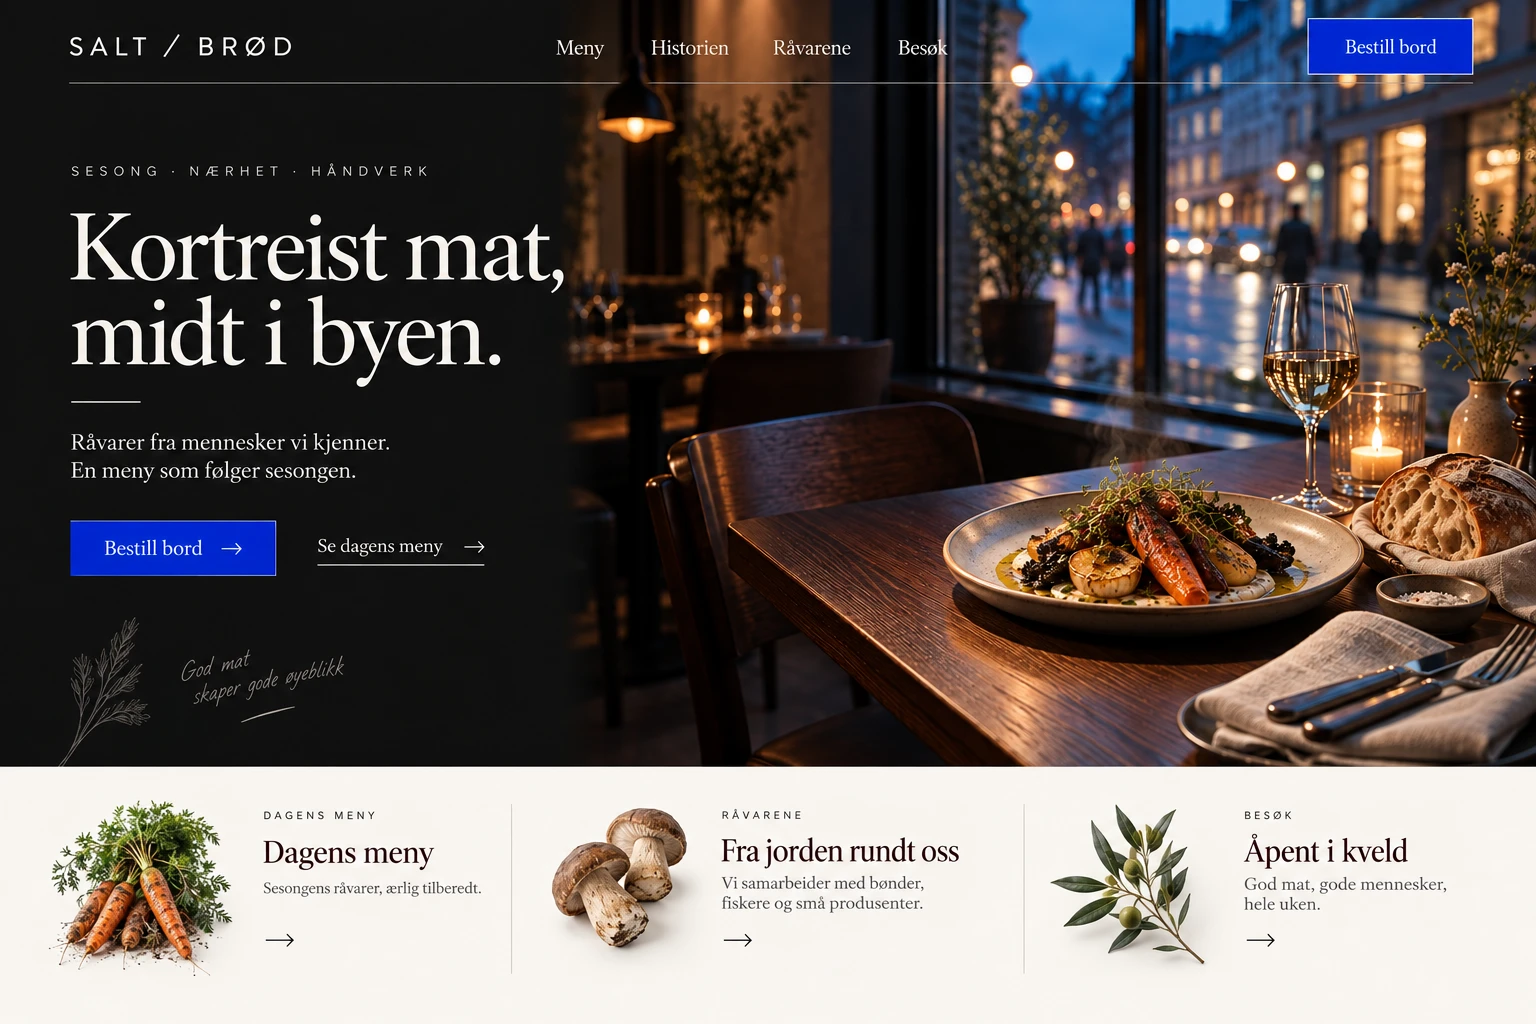
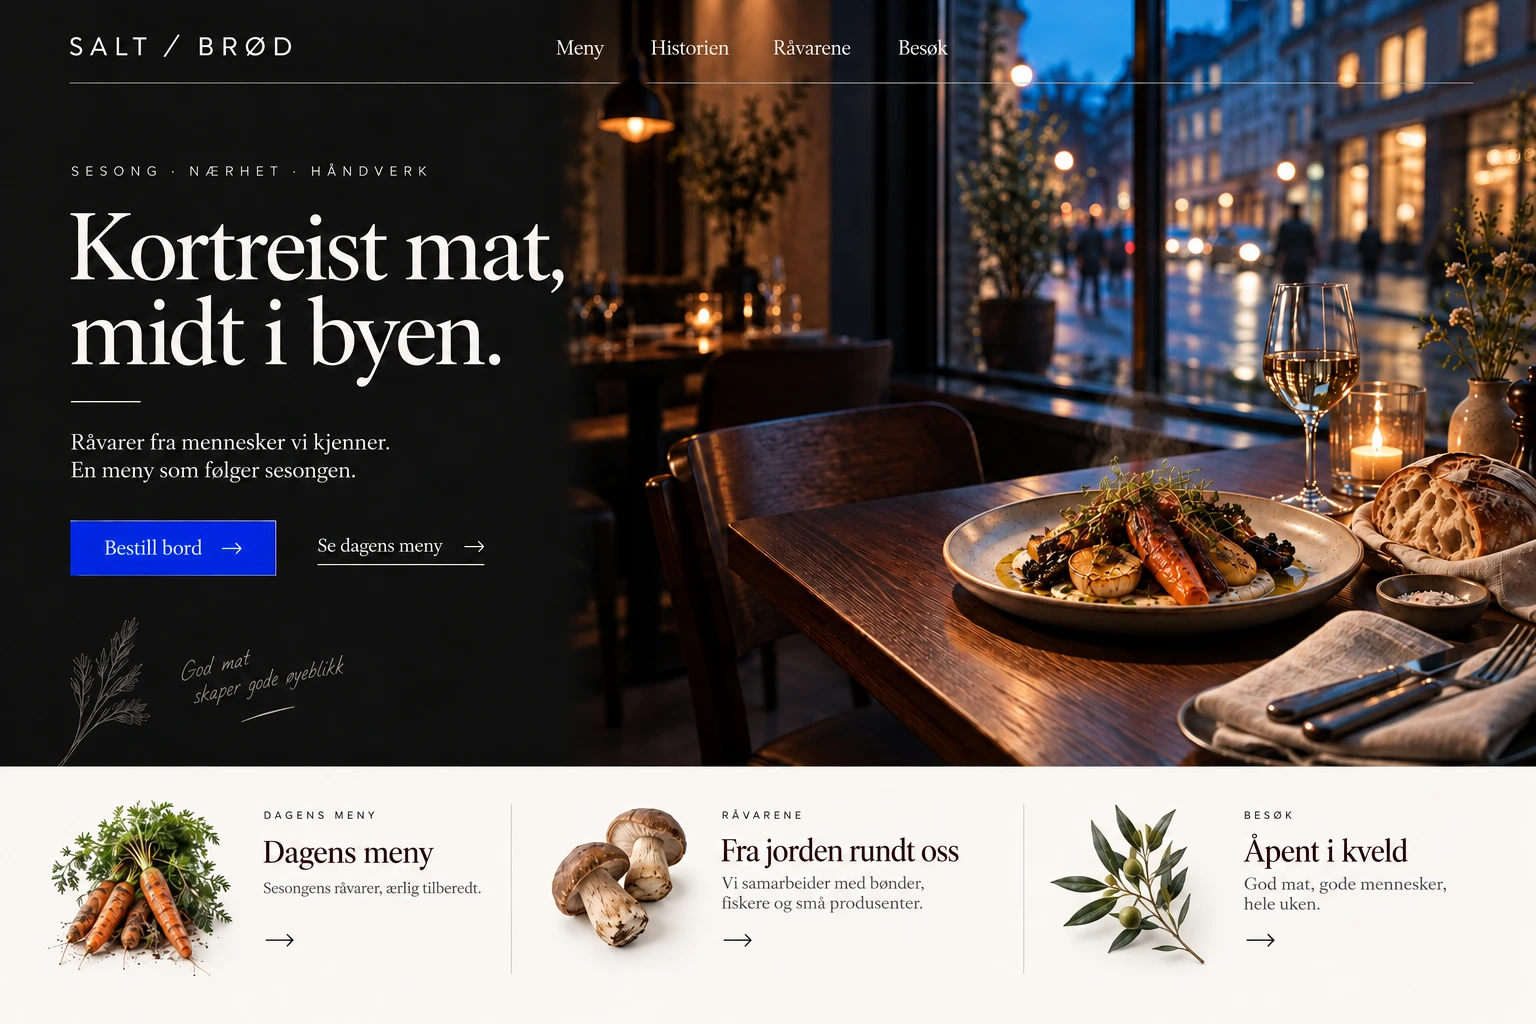
Hero: flytt før/etter-slideren tilbake til høyre side + oppdatert etter-bilde
- Slideren tilbake i heroen (to kolonner: tekst venstre, før/etter-demo høyre) — ren look
- Fjerner den frittstående «Se forskjellen»-seksjonen (unngår duplikat)
- Oppdaterer salt-brod-after.png med ny, skarpere versjon fra bruker
- Beholder ekte <img> (object-fit: cover), range/knapper/tastatur/drag, etiketter «Før / standardoppsett» / «Etter / ny retning»
- id=arbeid tilbake på arbeid-seksjonen for nav-lenke
- Verifisert: begge bilder laster på desktop og mobil, ingen overflow

Claude-Session: https://claude.ai/code/session_01Bc1dRNas8Q1uAbFJbtSim5

diff --git a/index.html b/index.html
@@ -105,24 +105,24 @@ section{position:relative}
   .navcta{justify-content:center;margin-top:14px;padding:15px 20px}
 }
 
-/* ================= HERO ================= */
+/* ================= HERO — copy + live before/after demo ================= */
 .hero{position:relative;isolation:isolate;overflow:clip}
 .hero::before{content:"";position:absolute;top:-30%;right:-10%;width:min(70vw,900px);height:min(70vw,900px);background:radial-gradient(closest-side,rgba(18,72,255,.14),rgba(18,72,255,.04) 55%,transparent 72%);pointer-events:none;z-index:0;filter:blur(6px)}
-.hero::after{content:"";position:absolute;bottom:-30%;left:-12%;width:min(60vw,780px);height:min(60vw,780px);background:radial-gradient(closest-side,rgba(18,72,255,.08),transparent 70%);pointer-events:none;z-index:0}
 .hero .wrap{position:relative;z-index:1}
-.hero-inner{max-width:880px;margin:0 auto;text-align:center;padding-top:clamp(52px,7vw,116px);padding-bottom:clamp(44px,5vw,80px)}
+.hero-grid{display:grid;grid-template-columns:minmax(0,.9fr) minmax(0,1.1fr);gap:clamp(30px,5vw,80px);align-items:center;padding-top:clamp(36px,5vw,72px);padding-bottom:clamp(36px,5vw,64px)}
 .hero h1 span{display:block}
 .hero h1 .accent{color:var(--cobalt)}
-.hero-description{max-width:600px;margin:24px auto 0;font-size:18px;line-height:1.6;letter-spacing:-.02em;color:var(--ink2)}
-.hero-cta{margin-top:30px;display:flex;gap:14px 22px;align-items:center;justify-content:center;flex-wrap:wrap}
-.hero-facts{margin:38px auto 0;display:inline-grid;grid-template-columns:repeat(3,auto);gap:18px 44px;justify-content:center;border-top:1px solid var(--line);padding-top:24px}
-.hero-facts b{display:block;font-size:24px;font-weight:500;letter-spacing:-.04em;line-height:1}
+.hero-description{max-width:420px;margin-top:26px;font-size:18px;line-height:1.6;letter-spacing:-.02em;color:var(--ink2)}
+.hero-cta{margin-top:30px;display:flex;gap:14px 22px;align-items:center;flex-wrap:wrap}
+.hero-facts{margin-top:34px;display:grid;grid-template-columns:repeat(3,auto);gap:18px 28px;justify-content:start;border-top:1px solid var(--line);padding-top:20px}
+.hero-facts b{display:block;font-size:22px;font-weight:500;letter-spacing:-.04em;line-height:1}
 .hero-facts span{display:block;font-size:12.5px;color:var(--muted);margin-top:6px}
-@media(max-width:600px){.hero-facts{display:grid;grid-template-columns:repeat(3,1fr);gap:12px}.hero-facts b{font-size:17px}.hero-facts span{font-size:11px}.hero-cta .primary{width:100%;max-width:420px}}
+.hero-demo{position:relative}
+.hero-note{margin-top:12px;font-size:12px;color:var(--faint)}
+@media(max-width:1000px){.hero-grid{grid-template-columns:1fr;gap:34px}}
+@media(max-width:600px){.hero-facts{grid-template-columns:repeat(3,1fr);gap:12px}.hero-facts b{font-size:17px}.hero-facts span{font-size:11px}.hero-cta .primary{width:100%;max-width:420px}}
 
-/* ================= REVEAL — before/after with real website screenshots ================= */
-.reveal-sec{background:var(--pearl2)}
-.reveal-shell{max-width:1080px;margin-inline:auto}
+/* Before/after — real website screenshots */
 .compare-labels{display:flex;justify-content:space-between;margin-bottom:12px;font-size:12px;letter-spacing:.06em;color:var(--muted)}
 .compare{--cut:48%;aspect-ratio:3/2;position:relative;overflow:hidden;border:1px solid #c9cbd0;border-radius:14px;isolation:isolate;box-shadow:0 40px 90px -40px rgba(10,20,60,.45);background:#e7e7e7}
 .specimen{position:absolute;inset:0;overflow:hidden;pointer-events:none}
@@ -136,7 +136,6 @@ section{position:relative}
 .compare-buttons{display:flex;gap:8px}
 .compare-buttons button{border:1px solid var(--line);padding:6px 12px;border-radius:4px;font-size:12px;transition:background .2s;background:#fff}
 .compare-buttons button[aria-pressed="true"]{background:var(--ink);color:#fff;border-color:var(--ink)}
-.reveal-note{margin-top:14px;font-size:12px;color:var(--faint);text-align:center}
 @media(max-width:600px){.compare{border-radius:10px}.compare-handle{width:40px;height:40px;font-size:17px}}
 
 /* ================= PROMISE strip (obsidian) ================= */
@@ -337,51 +336,44 @@ footer{padding:clamp(40px,5vw,60px) 0 28px}
 <!-- ================= HERO ================= -->
 <section class="hero" id="top" aria-labelledby="hero-title">
   <div class="wrap">
-    <div class="hero-inner">
-      <span class="label">Webdesignstudio · Stavanger</span>
-      <h1 id="hero-title" class="h-xl" style="margin-top:18px"><span>Nettsiden som får</span><span>kunden til å <span class="accent">ta kontakt.</span></span></h1>
-      <p class="hero-description">Vi designer og bygger nettsider for norske bedrifter. Fast pris, levert på dager — og hver side er bygget for én ting: at folk ringer, booker eller sender en melding.</p>
-      <div class="hero-cta">
-        <a class="primary" href="/start.html?type=konsept">Få et gratis førsteside-konsept <span class="arrow" aria-hidden="true">↗</span></a>
-        <a class="text-link" href="#arbeid">Se forskjellen <span class="arrow" aria-hidden="true">↓</span></a>
+    <div class="hero-grid">
+      <div class="hero-copy">
+        <span class="label">Webdesignstudio · Stavanger</span>
+        <h1 id="hero-title" class="h-xl" style="margin-top:18px"><span>Nettsiden som får</span><span>kunden til å</span><span class="accent">ta kontakt.</span></h1>
+        <p class="hero-description">Vi designer og bygger nettsider for norske bedrifter. Fast pris, levert på dager — og hver side er bygget for én ting: at folk ringer, booker eller sender en melding.</p>
+        <div class="hero-cta">
+          <a class="primary" href="/start.html?type=konsept">Få et gratis førsteside-konsept <span class="arrow" aria-hidden="true">↗</span></a>
+          <a class="text-link" href="#priser">Se priser <span class="arrow" aria-hidden="true">↓</span></a>
+        </div>
+        <div class="hero-facts" aria-label="Nøkkelfakta">
+          <div><b>16 000 kr</b><span>Komplett nettside, fast pris</span></div>
+          <div><b>5 dager</b><span>Levering etter mottatt innhold</span></div>
+          <div><b>100 %</b><span>Du eier design, kode og innhold</span></div>
+        </div>
       </div>
-      <div class="hero-facts" aria-label="Nøkkelfakta">
-        <div><b>16 000 kr</b><span>Komplett nettside, fast pris</span></div>
-        <div><b>5 dager</b><span>Levering etter mottatt innhold</span></div>
-        <div><b>100 %</b><span>Du eier design, kode og innhold</span></div>
-      </div>
-    </div>
-  </div>
-</section>
 
-<!-- ================= REVEAL · before/after (real screenshots) ================= -->
-<section class="reveal-sec pad" id="arbeid" aria-labelledby="reveal-title">
-  <div class="wrap">
-    <div class="sec-head">
-      <div><span class="label">Arbeid</span><h2 id="reveal-title" class="h-l">Se forskjellen.</h2></div>
-      <p class="lead">Samme restaurant, samme innhold — men en tydeligere retning. Dra i midten for å sammenligne en typisk gammel side med hvordan vi ville bygget den.</p>
-    </div>
-    <div class="reveal-shell rv">
-      <div class="compare-labels" aria-hidden="true"><span>Før / standardoppsett</span><span>Etter / ny retning</span></div>
-      <div class="compare" id="comparison">
-        <div class="specimen after" aria-hidden="true">
-          <img class="after-photo" src="img/work/salt-brod/salt-brod-after.png" alt="Etter: ny nettside for Salt og Brød AS" width="1536" height="1024" loading="lazy" decoding="async">
+      <div class="hero-demo rv">
+        <div class="compare-labels" aria-hidden="true"><span>Før / standardoppsett</span><span>Etter / ny retning</span></div>
+        <div class="compare" id="comparison">
+          <div class="specimen after" aria-hidden="true">
+            <img class="after-photo" src="img/work/salt-brod/salt-brod-after.png" alt="Etter: ny nettside for Salt og Brød AS" width="1536" height="1024" fetchpriority="high" decoding="async">
+          </div>
+          <div class="specimen before" aria-hidden="true">
+            <img class="before-photo" src="img/work/salt-brod/salt-brod-before.png" alt="Før: eldre nettside for Salt og Brød AS" width="1536" height="1024" decoding="async">
+          </div>
+          <div class="compare-line" aria-hidden="true"><span class="compare-handle">‹ ›</span></div>
+          <label class="sr" for="reveal">Sammenlign standardoppsett og ny designretning</label>
+          <input class="compare-range" type="range" id="reveal" min="0" max="100" value="48" aria-describedby="compare-description">
         </div>
-        <div class="specimen before" aria-hidden="true">
-          <img class="before-photo" src="img/work/salt-brod/salt-brod-before.png" alt="Før: eldre nettside for Salt og Brød AS" width="1536" height="1024" loading="lazy" decoding="async">
+        <div class="compare-help">
+          <span id="compare-description">Dra for å se. Samme restaurant, ny retning.</span>
+          <div class="compare-buttons">
+            <button type="button" data-reveal="100" aria-pressed="false">Før</button>
+            <button type="button" data-reveal="0" aria-pressed="false">Etter</button>
+          </div>
         </div>
-        <div class="compare-line" aria-hidden="true"><span class="compare-handle">‹ ›</span></div>
-        <label class="sr" for="reveal">Sammenlign standardoppsett og ny designretning</label>
-        <input class="compare-range" type="range" id="reveal" min="0" max="100" value="48" aria-describedby="compare-description">
+        <p class="hero-note">Illustrert før/etter-konsept — ikke en faktisk kunde.</p>
       </div>
-      <div class="compare-help">
-        <span id="compare-description">Dra for å se. Piltaster med tastatur.</span>
-        <div class="compare-buttons">
-          <button type="button" data-reveal="100" aria-pressed="false">Før</button>
-          <button type="button" data-reveal="0" aria-pressed="false">Etter</button>
-        </div>
-      </div>
-      <p class="reveal-note">Illustrert før/etter-konsept for en fiktiv restaurant — ikke en faktisk kunde.</p>
     </div>
   </div>
 </section>
@@ -409,10 +401,10 @@ footer{padding:clamp(40px,5vw,60px) 0 28px}
 </section>
 
 <!-- ================= WORK ================= -->
-<section class="work pad" id="portefolje" aria-labelledby="work-title">
+<section class="work pad" id="arbeid" aria-labelledby="work-title">
   <div class="wrap">
     <div class="sec-head">
-      <div><span class="label">Portefølje</span><h2 id="work-title" class="h-l">Slik tenker vi.</h2></div>
+      <div><span class="label">Arbeid</span><h2 id="work-title" class="h-l">Slik tenker vi.</h2></div>
       <p class="lead">Ett eget produkt vi har designet og bygget fra bunnen — og fire retninger for bransjene vi jobber mest mot. Konseptarbeid er merket som det.</p>
     </div>
 
